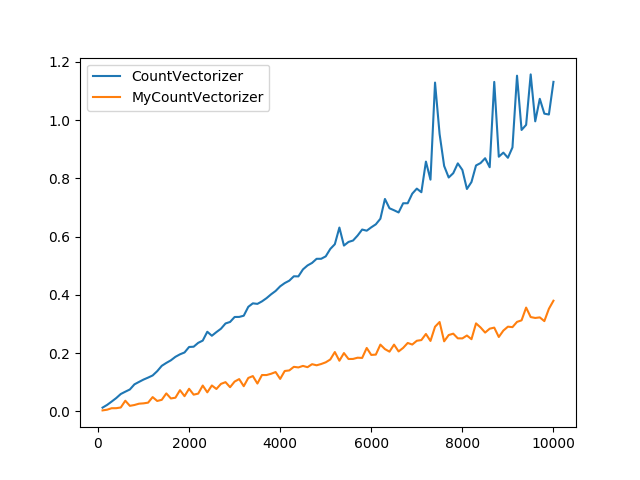
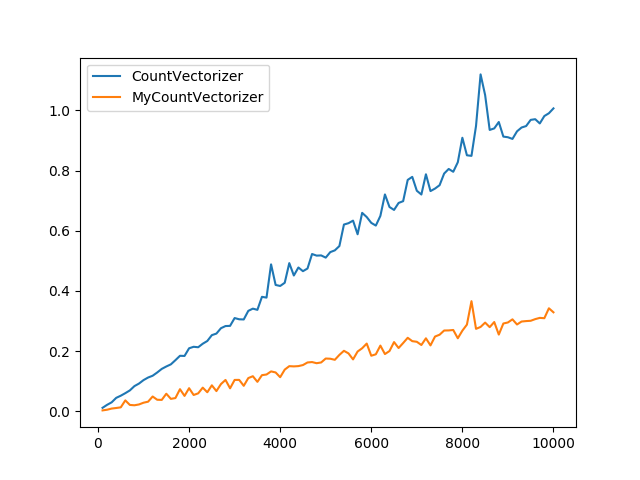
fix a bug

diff --git a/MyCountVectorizer.py b/MyCountVectorizer.py
@@ -33,6 +33,6 @@ class MyCountVectorizer():
                 cols.append(self.dict_[x])
         vals = np.ones((len(rows),)).astype(int)
 
-        return sparse.csc_matrix((vals, (rows, cols)), shape=(len(data), len(self.labels_)))
+        return sparse.csr_matrix((vals, (rows, cols)), shape=(len(data), len(self.labels_)))
         
         

diff --git a/try.py b/try.py
@@ -3,5 +3,5 @@ from scipy import sparse
 rows = [0,1,2,2]
 cols = [0,1,2,2]
 vals = [1,1,1,1]
-mat = sparse.csc_matrix((vals,(rows,cols)), shape=(3,3))
+mat = sparse.csr_matrix((vals,(rows,cols)), shape=(3,3))
 print mat.toarray()
